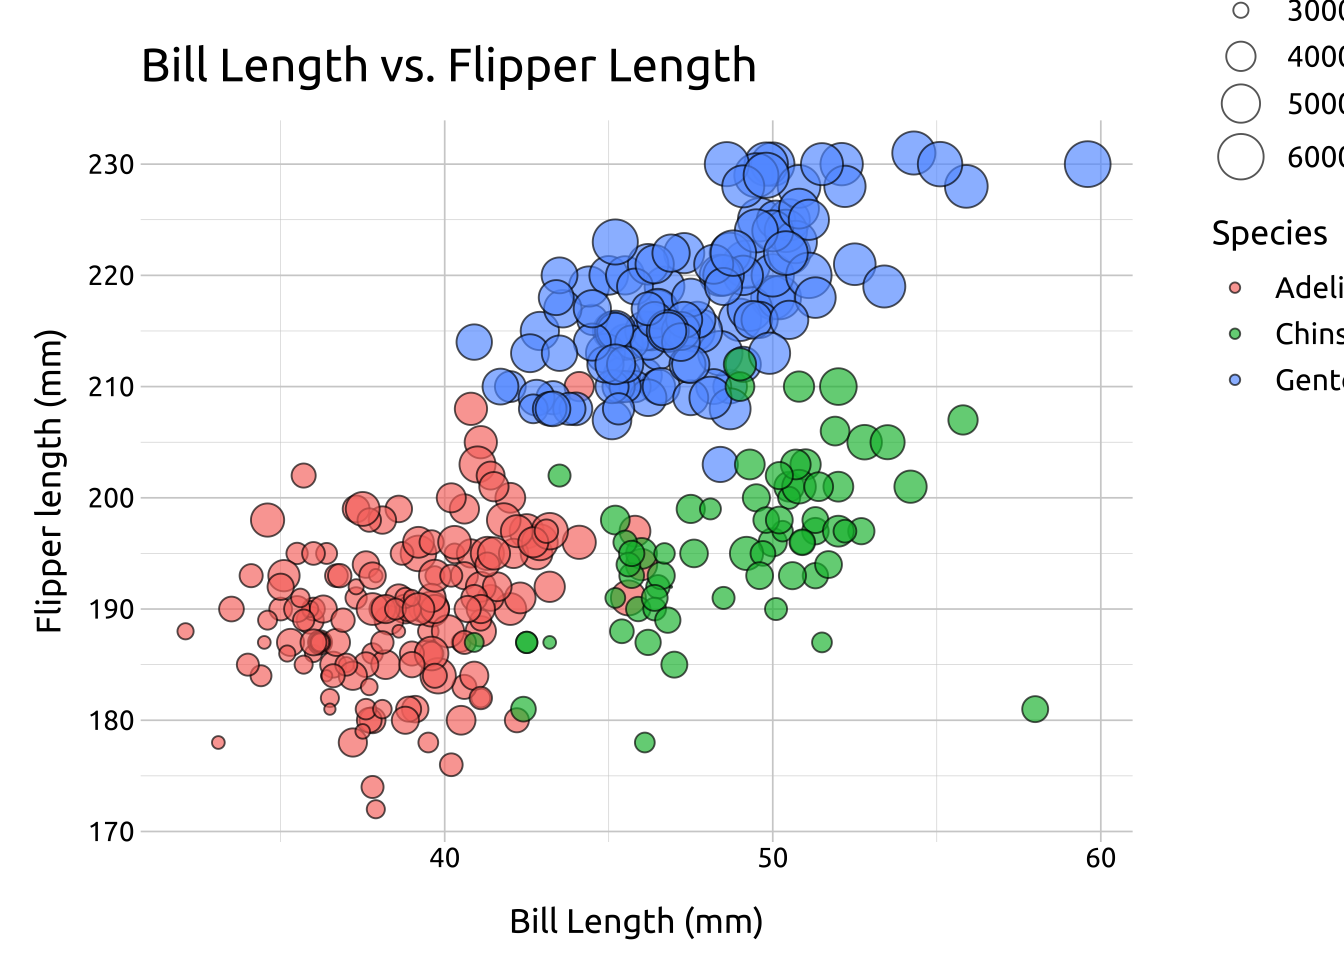
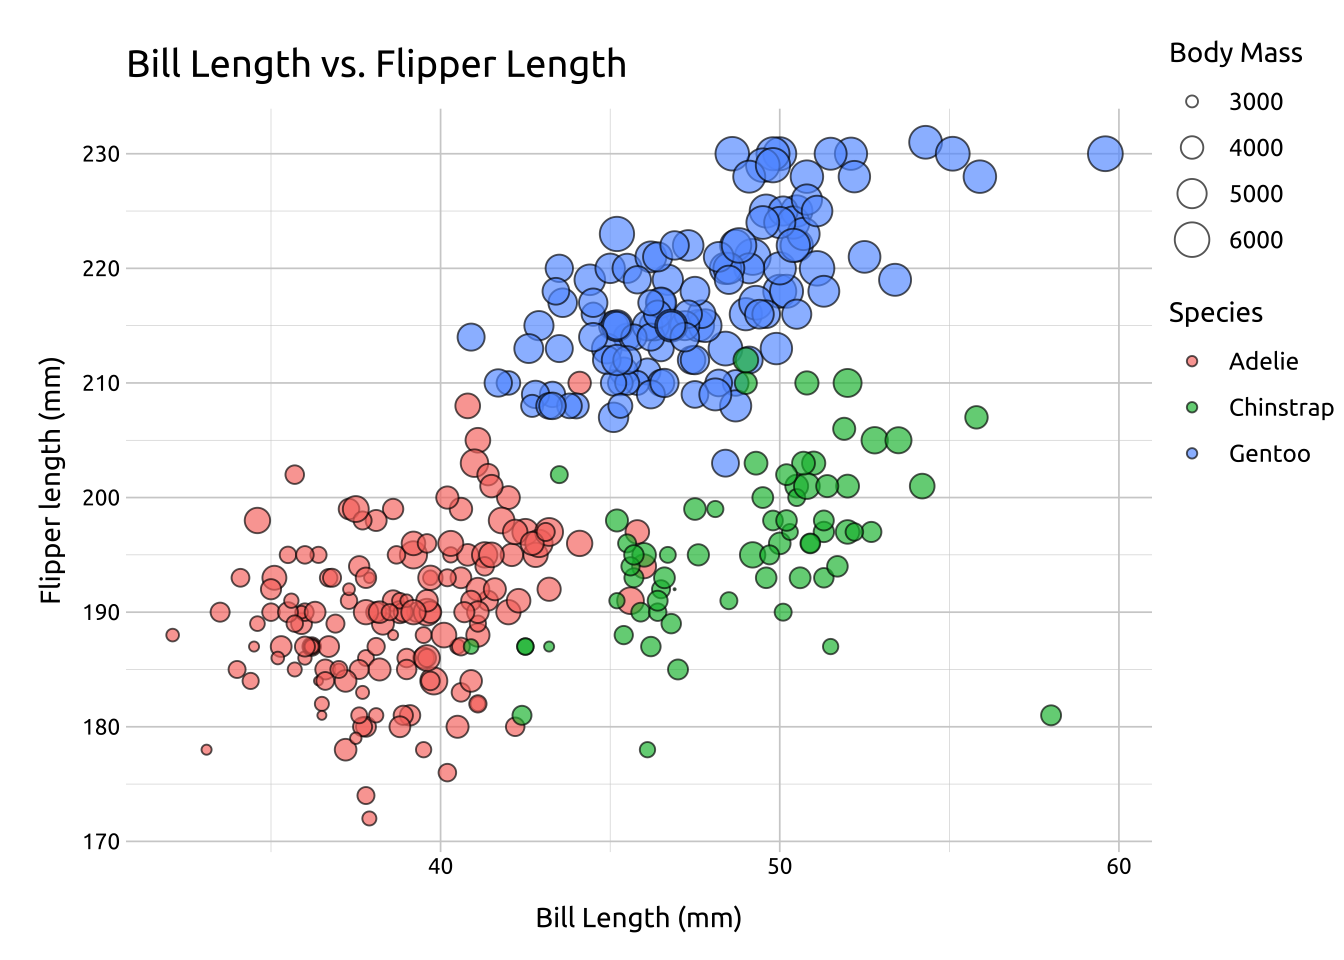
fixed legend grouped bubble chart

diff --git a/docs/rela/grouped_bubble_charts.html b/docs/rela/grouped_bubble_charts.html
@@ -547,7 +547,7 @@ $ year              &lt;int&gt; 2007, 2007, 2007, 2007, 2007, 2007, 2007, 2007, 
 </ul>
 <p>In the <code>scale_size()</code></p>
 <ul>
-<li>set <code>range</code> to <code>c(.04, 8)</code> and <code>name</code> to <code>"Body Mass (g)"</code></li>
+<li>set <code>range</code> to <code>c(.04, 6)</code></li>
 </ul>
 </div>
 <div style="font-size: 0.75em;">
@@ -567,7 +567,7 @@ $ year              &lt;int&gt; 2007, 2007, 2007, 2007, 2007, 2007, 2007, 2007, 
 <span id="cb4-11"><a href="#cb4-11" aria-hidden="true" tabindex="-1"></a>  <span class="fu">geom_point</span>(</span>
 <span id="cb4-12"><a href="#cb4-12" aria-hidden="true" tabindex="-1"></a>    <span class="fu">aes</span>(<span class="at">size =</span> body_mass_g, <span class="at">fill =</span> species), </span>
 <span id="cb4-13"><a href="#cb4-13" aria-hidden="true" tabindex="-1"></a>        <span class="at">alpha =</span> <span class="dv">2</span><span class="sc">/</span><span class="dv">3</span>, <span class="at">shape =</span> <span class="dv">21</span>, <span class="at">color =</span> <span class="st">"#000000"</span>) <span class="sc">+</span> </span>
-<span id="cb4-14"><a href="#cb4-14" aria-hidden="true" tabindex="-1"></a>  <span class="fu">scale_size</span>(<span class="at">range =</span> <span class="fu">c</span>(.<span class="dv">04</span>, <span class="dv">8</span>)) </span>
+<span id="cb4-14"><a href="#cb4-14" aria-hidden="true" tabindex="-1"></a>  <span class="fu">scale_size</span>(<span class="at">range =</span> <span class="fu">c</span>(.<span class="dv">04</span>, <span class="dv">6</span>)) </span>
 <span id="cb4-15"><a href="#cb4-15" aria-hidden="true" tabindex="-1"></a></span>
 <span id="cb4-16"><a href="#cb4-16" aria-hidden="true" tabindex="-1"></a>ggp2_grp_bubble <span class="sc">+</span> </span>
 <span id="cb4-17"><a href="#cb4-17" aria-hidden="true" tabindex="-1"></a>  labs_grp_bubble</span></code><button title="Copy to Clipboard" class="code-copy-button"><i class="bi"></i></button></pre></div>
@@ -901,7 +901,7 @@ window.document.addEventListener("DOMContentLoaded", function (event) {
 <span id="cb5-46"><a href="#cb5-46" aria-hidden="true" tabindex="-1"></a><span class="fu">source</span>(<span class="st">"../R/theme_ggp2g.R"</span>)</span>
 <span id="cb5-47"><a href="#cb5-47" aria-hidden="true" tabindex="-1"></a><span class="co"># set theme</span></span>
 <span id="cb5-48"><a href="#cb5-48" aria-hidden="true" tabindex="-1"></a>ggplot2<span class="sc">::</span><span class="fu">theme_set</span>(<span class="fu">theme_ggp2g</span>(</span>
-<span id="cb5-49"><a href="#cb5-49" aria-hidden="true" tabindex="-1"></a>    <span class="at">base_size =</span> <span class="dv">16</span>))</span>
+<span id="cb5-49"><a href="#cb5-49" aria-hidden="true" tabindex="-1"></a>    <span class="at">base_size =</span> <span class="dv">13</span>))</span>
 <span id="cb5-50"><a href="#cb5-50" aria-hidden="true" tabindex="-1"></a><span class="fu">install.packages</span>(<span class="st">"ggplot2movies"</span>)</span>
 <span id="cb5-51"><a href="#cb5-51" aria-hidden="true" tabindex="-1"></a><span class="fu">install.packages</span>(<span class="st">"palmerpenguins"</span>)</span>
 <span id="cb5-52"><a href="#cb5-52" aria-hidden="true" tabindex="-1"></a><span class="in">```</span></span>
@@ -940,7 +940,7 @@ window.document.addEventListener("DOMContentLoaded", function (event) {
 <span id="cb5-87"><a href="#cb5-87" aria-hidden="true" tabindex="-1"></a>  <span class="fu">geom_point</span>(</span>
 <span id="cb5-88"><a href="#cb5-88" aria-hidden="true" tabindex="-1"></a>    <span class="fu">aes</span>(<span class="at">size =</span> body_mass_g, <span class="at">fill =</span> species), </span>
 <span id="cb5-89"><a href="#cb5-89" aria-hidden="true" tabindex="-1"></a>        <span class="at">alpha =</span> <span class="dv">2</span><span class="sc">/</span><span class="dv">3</span>, <span class="at">shape =</span> <span class="dv">21</span>, <span class="at">color =</span> <span class="st">"#000000"</span>) <span class="sc">+</span> </span>
-<span id="cb5-90"><a href="#cb5-90" aria-hidden="true" tabindex="-1"></a>  <span class="fu">scale_size</span>(<span class="at">range =</span> <span class="fu">c</span>(.<span class="dv">04</span>, <span class="dv">8</span>)) </span>
+<span id="cb5-90"><a href="#cb5-90" aria-hidden="true" tabindex="-1"></a>  <span class="fu">scale_size</span>(<span class="at">range =</span> <span class="fu">c</span>(.<span class="dv">04</span>, <span class="dv">6</span>))</span>
 <span id="cb5-91"><a href="#cb5-91" aria-hidden="true" tabindex="-1"></a></span>
 <span id="cb5-92"><a href="#cb5-92" aria-hidden="true" tabindex="-1"></a>ggp2_grp_bubble <span class="sc">+</span> </span>
 <span id="cb5-93"><a href="#cb5-93" aria-hidden="true" tabindex="-1"></a>  labs_grp_bubble</span>
@@ -1025,7 +1025,7 @@ window.document.addEventListener("DOMContentLoaded", function (event) {
 <span id="cb5-176"><a href="#cb5-176" aria-hidden="true" tabindex="-1"></a>    </span>
 <span id="cb5-177"><a href="#cb5-177" aria-hidden="true" tabindex="-1"></a>In the <span class="in">`scale_size()`</span>  </span>
 <span id="cb5-178"><a href="#cb5-178" aria-hidden="true" tabindex="-1"></a></span>
-<span id="cb5-179"><a href="#cb5-179" aria-hidden="true" tabindex="-1"></a><span class="ss">  - </span>set <span class="in">`range`</span> to <span class="in">`c(.04, 8)`</span> and <span class="in">`name`</span> to <span class="in">`"Body Mass (g)"`</span> </span>
+<span id="cb5-179"><a href="#cb5-179" aria-hidden="true" tabindex="-1"></a><span class="ss">  - </span>set <span class="in">`range`</span> to <span class="in">`c(.04, 6)`</span></span>
 <span id="cb5-180"><a href="#cb5-180" aria-hidden="true" tabindex="-1"></a>  </span>
 <span id="cb5-181"><a href="#cb5-181" aria-hidden="true" tabindex="-1"></a>:::</span>
 <span id="cb5-182"><a href="#cb5-182" aria-hidden="true" tabindex="-1"></a></span>
@@ -1049,7 +1049,7 @@ window.document.addEventListener("DOMContentLoaded", function (event) {
 <span id="cb5-202"><a href="#cb5-202" aria-hidden="true" tabindex="-1"></a>  <span class="fu">geom_point</span>(</span>
 <span id="cb5-203"><a href="#cb5-203" aria-hidden="true" tabindex="-1"></a>    <span class="fu">aes</span>(<span class="at">size =</span> body_mass_g, <span class="at">fill =</span> species), </span>
 <span id="cb5-204"><a href="#cb5-204" aria-hidden="true" tabindex="-1"></a>        <span class="at">alpha =</span> <span class="dv">2</span><span class="sc">/</span><span class="dv">3</span>, <span class="at">shape =</span> <span class="dv">21</span>, <span class="at">color =</span> <span class="st">"#000000"</span>) <span class="sc">+</span> </span>
-<span id="cb5-205"><a href="#cb5-205" aria-hidden="true" tabindex="-1"></a>  <span class="fu">scale_size</span>(<span class="at">range =</span> <span class="fu">c</span>(.<span class="dv">04</span>, <span class="dv">8</span>)) </span>
+<span id="cb5-205"><a href="#cb5-205" aria-hidden="true" tabindex="-1"></a>  <span class="fu">scale_size</span>(<span class="at">range =</span> <span class="fu">c</span>(.<span class="dv">04</span>, <span class="dv">6</span>)) </span>
 <span id="cb5-206"><a href="#cb5-206" aria-hidden="true" tabindex="-1"></a></span>
 <span id="cb5-207"><a href="#cb5-207" aria-hidden="true" tabindex="-1"></a>ggp2_grp_bubble <span class="sc">+</span> </span>
 <span id="cb5-208"><a href="#cb5-208" aria-hidden="true" tabindex="-1"></a>  labs_grp_bubble</span>
@@ -1081,7 +1081,7 @@ window.document.addEventListener("DOMContentLoaded", function (event) {
 <span id="cb5-236"><a href="#cb5-236" aria-hidden="true" tabindex="-1"></a>  <span class="fu">geom_point</span>(</span>
 <span id="cb5-237"><a href="#cb5-237" aria-hidden="true" tabindex="-1"></a>    <span class="fu">aes</span>(<span class="at">size =</span> body_mass_g, <span class="at">fill =</span> species), </span>
 <span id="cb5-238"><a href="#cb5-238" aria-hidden="true" tabindex="-1"></a>        <span class="at">alpha =</span> <span class="dv">2</span><span class="sc">/</span><span class="dv">3</span>, <span class="at">shape =</span> <span class="dv">21</span>, <span class="at">color =</span> <span class="st">"#000000"</span>) <span class="sc">+</span> </span>
-<span id="cb5-239"><a href="#cb5-239" aria-hidden="true" tabindex="-1"></a>  <span class="fu">scale_size</span>(<span class="at">range =</span> <span class="fu">c</span>(.<span class="dv">04</span>, <span class="dv">8</span>)) </span>
+<span id="cb5-239"><a href="#cb5-239" aria-hidden="true" tabindex="-1"></a>  <span class="fu">scale_size</span>(<span class="at">range =</span> <span class="fu">c</span>(.<span class="dv">04</span>, <span class="dv">6</span>)) </span>
 <span id="cb5-240"><a href="#cb5-240" aria-hidden="true" tabindex="-1"></a></span>
 <span id="cb5-241"><a href="#cb5-241" aria-hidden="true" tabindex="-1"></a>ggp2_grp_bubble <span class="sc">+</span> </span>
 <span id="cb5-242"><a href="#cb5-242" aria-hidden="true" tabindex="-1"></a>  labs_grp_bubble</span>
